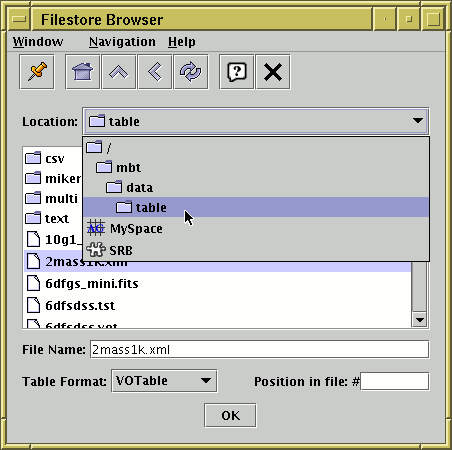
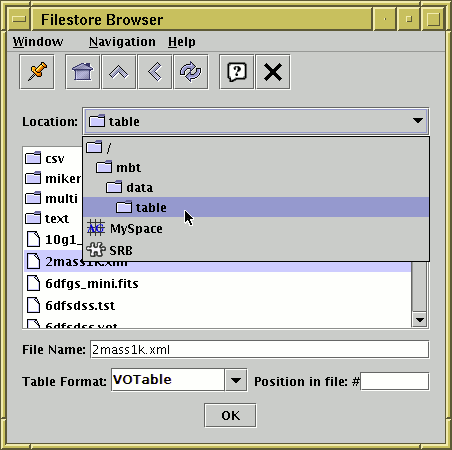
topcat: input format selector is editable
Since there are now non-trivial options possible to apply to
input formats (ECSV header option), the format selector is now
editable in the topcat Load window and Filestore Browser window.

Changed region(s): [[0.2478, 0.8089, 0.5575, 0.8711]]

diff --git a/table/src/main/uk/ac/starlink/table/gui/AbstractTableLoadDialog.java b/table/src/main/uk/ac/starlink/table/gui/AbstractTableLoadDialog.java
@@ -162,7 +162,10 @@ public abstract class AbstractTableLoadDialog implements TableLoadDialog {
      * @return  table format combo box
      */
     public JComboBox<String> createFormatSelector() {
-        return new JComboBox<String>( formatSelectorModel_ );
+        JComboBox<String> formatSelector =
+            new JComboBox<>( formatSelectorModel_ );
+        formatSelector.setEditable( true );
+        return formatSelector;
     }
 
     /**
